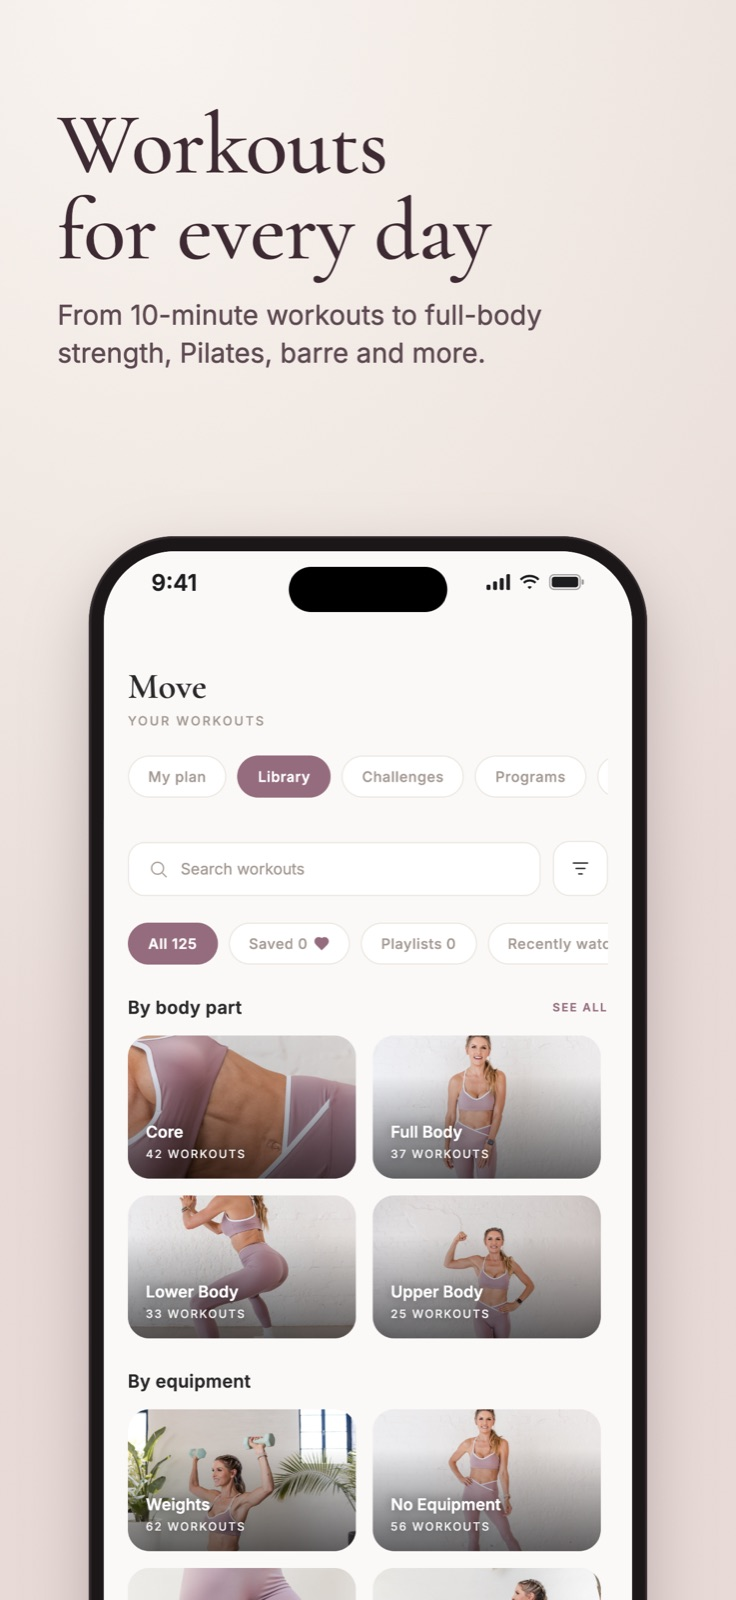
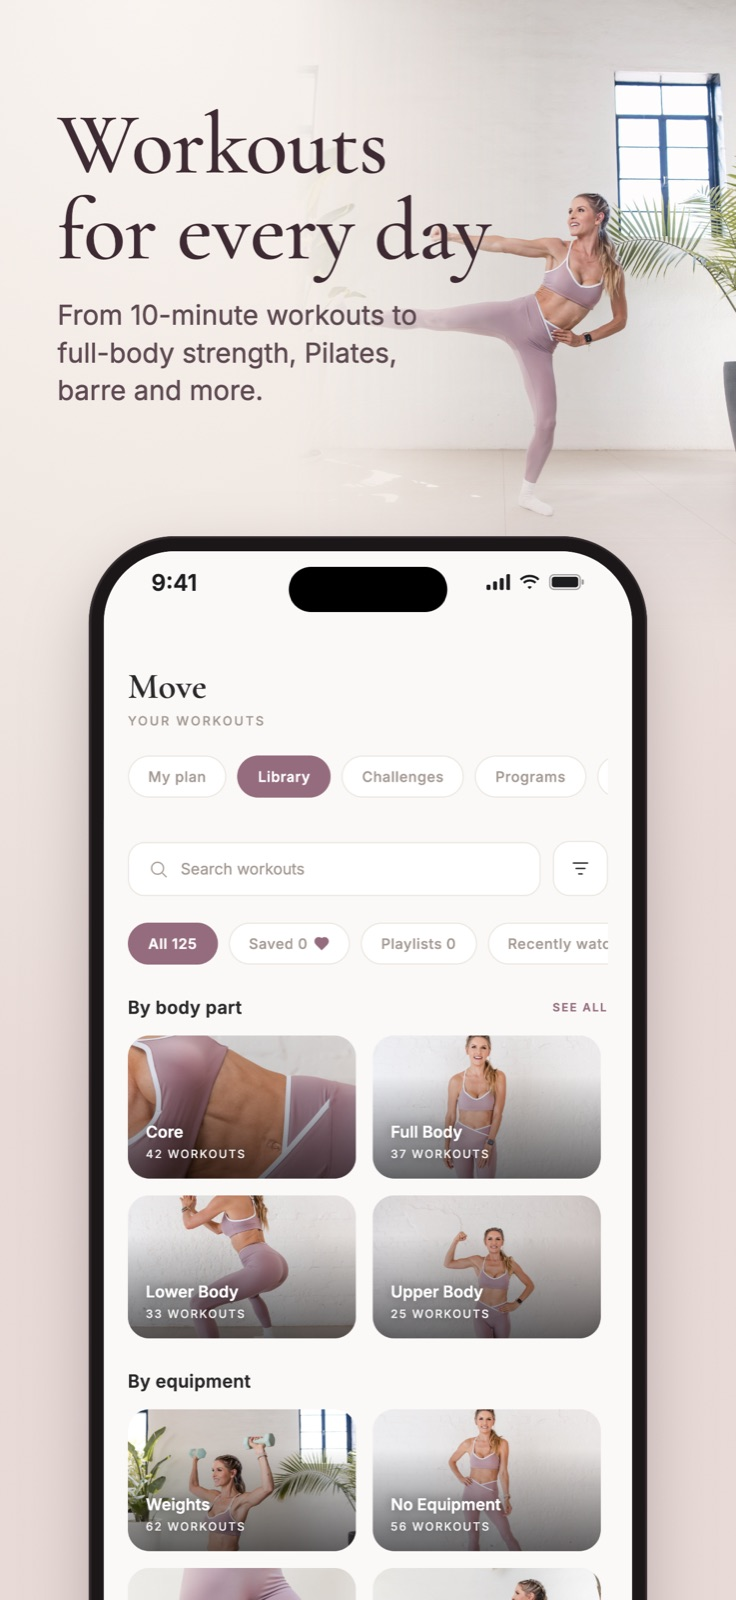
BRN-352: photo backdrops on every frame, Today + Progress fixed, promotional cards (Play promo content + Apple In-App Events) with research

Changed region(s): [[0.0625, 0.0, 1.0, 0.3125], [0.9688, 0.2188, 1.0, 0.2812]]

diff --git a/play-listing/index.html b/play-listing/index.html
@@ -31,10 +31,22 @@ h1,h2{font-family:'Cormorant Garamond',serif;font-weight:600}h1{font-size:40px;m
 .set{display:flex;gap:12px;overflow-x:auto;padding:12px 2px 16px}.set a{flex:none}.set img{height:520px;border-radius:12px;box-shadow:0 6px 18px rgba(62,42,51,.15);display:block}
 .set.ip img{height:520px}
 table{border-collapse:collapse;width:100%;font-size:14px;background:#fff;border-radius:12px;overflow:hidden}td,th{text-align:left;padding:9px 12px;border-bottom:1px solid #eee;vertical-align:top}th{background:var(--sand);font-size:12px;text-transform:uppercase;letter-spacing:.06em}
-.src{font-size:12.5px;color:var(--mute)}.src a{color:var(--md)}
+.src{font-size:12.5px;color:var(--mute)}
+.promo{display:grid;grid-template-columns:1fr 1fr;gap:22px;background:#fff;border:1px solid #eadfd8;border-radius:16px;padding:18px;margin:16px 0}@media(max-width:900px){.promo{grid-template-columns:1fr}}
+.promo h3{grid-column:1/-1;margin:0;font-family:'Cormorant Garamond',serif;font-size:26px}
+.promo .meta{grid-column:1/-1;font-size:13px;color:var(--mute);margin-top:-14px}
+.gcard{border-radius:14px;overflow:hidden;position:relative;font-family:Roboto,Arial,sans-serif;box-shadow:0 4px 14px rgba(0,0,0,.12)}
+.gcard img{width:100%;display:block}.gcard .ov{position:absolute;left:0;right:0;bottom:0;padding:14px 16px;background:linear-gradient(180deg,transparent,rgba(0,0,0,.62));color:#fff}
+.gcard .ty{font-size:11px;letter-spacing:.06em;text-transform:uppercase;opacity:.9}.gcard .tg{font-size:16px;font-weight:500;margin-top:3px}
+.acard{border-radius:16px;overflow:hidden;background:#fff;box-shadow:0 4px 14px rgba(0,0,0,.12);font-family:-apple-system,'Inter',sans-serif}
+.acard img{width:100%;display:block}.acard .b{padding:10px 14px 14px}.acard .bd{font-size:11px;font-weight:600;color:#8E5F70;letter-spacing:.04em;text-transform:uppercase}
+.acard .n{font-size:17px;font-weight:600;margin-top:2px}.acard .s{font-size:13px;color:#6e6e73}
+.lbl{font-size:11px;letter-spacing:.08em;text-transform:uppercase;color:var(--mute);margin-bottom:6px;font-weight:600}
+.copytbl td{font-size:13px}.src a{color:var(--md)}
 </style></head><body><div class="wrap">
 <span class="pill">Review · nothing uploaded</span>
 <h1>BURN on Google Play: your store page</h1>
+<p class="note"><b>Updated:</b> every screenshot now has its own photo backdrop, the Today and Progress screens are fixed, and there's a new promotional cards section further down.</p>
 <p class="note">This is how your listing will look on a phone, with your own description word for word and the new screenshots in the style you sent. Every phone shows the real app: the current build (Preview 407), November dates and demo data with made-up names, never real members. Nothing has been uploaded to Google Play or the App Store.</p>
 
 <div class="grid">
@@ -165,6 +177,43 @@ https://burn-app-legal.netlify.app/support.html</div>
 <h2>iPhone screenshots · 1320 × 2868 (6.9")</h2>
 <div class="set ip"><a href="v3/iphone/01-hero.jpg" target="_blank"><img src="v3/iphone/01-hero.jpg" alt="01-hero"></a><a href="v3/iphone/02-challenge.jpg" target="_blank"><img src="v3/iphone/02-challenge.jpg" alt="02-challenge"></a><a href="v3/iphone/03-move.jpg" target="_blank"><img src="v3/iphone/03-move.jpg" alt="03-move"></a><a href="v3/iphone/04-recipes.jpg" target="_blank"><img src="v3/iphone/04-recipes.jpg" alt="04-recipes"></a><a href="v3/iphone/05-together.jpg" target="_blank"><img src="v3/iphone/05-together.jpg" alt="05-together"></a><a href="v3/iphone/06-clubs.jpg" target="_blank"><img src="v3/iphone/06-clubs.jpg" alt="06-clubs"></a><a href="v3/iphone/07-friends.jpg" target="_blank"><img src="v3/iphone/07-friends.jpg" alt="07-friends"></a><a href="v3/iphone/08-progress.jpg" target="_blank"><img src="v3/iphone/08-progress.jpg" alt="08-progress"></a><a href="v3/iphone/09-thrive.jpg" target="_blank"><img src="v3/iphone/09-thrive.jpg" alt="09-thrive"></a></div>
 
+<h2>Promotional cards ("promotions tab")</h2>
+<p class="note"><b>The short answer:</b> the promo cards you remember from the old BURN listing are Google Play's <b>Promotional content</b> (it used to be called LiveOps). Google now only gives this to very large apps: roughly 1.6 million monthly users, or $40,000 a month spent on Play. Brand-new listings can't use it at all. I checked BURN's Play Console (read-only): there's no Promotional content option under Grow users. So we can't post these on Google Play yet. <b>On the App Store, you can</b>: Apple's In-App Events are open to every app, with up to 10 live at once on your page. A monthly challenge is exactly what Apple designed them for.</p>
+<table>
+<tr><th></th><th>Google Play · Promotional content</th><th>App Store · In-App Events</th></tr>
+<tr><td>Can BURN use it now?</td><td><b>No.</b> Only very large apps qualify, and new listings can't use it at all. It isn't in BURN's Play Console.</td><td><b>Yes.</b> Every app can use them.</td></tr>
+<tr><td>How many at once</td><td>One live at a time. Up to 6 featuring requests a quarter.</td><td>Up to 10 published at once (15 approved). All show on your page.</td></tr>
+<tr><td>Types</td><td>Offer · Time-limited event (challenge, live, special) · Major update (new features, new content)</td><td>Challenge · Competition · Live Event · Major Update · New Season · Premiere · Special Event</td></tr>
+<tr><td>How long</td><td>Up to 4 weeks. Major updates run 28 days. Submit 4 or more days ahead (14 if you want featuring).</td><td>15 minutes to 31 days. Can be promoted up to 14 days early.</td></tr>
+<tr><td>Image</td><td>1920 × 1080, with <b>no text at all</b>: no logo, slogan or app name. Keep the safe zone clear: 15% top, 20% bottom, 10% sides.</td><td>Card 1920 × 1080 and details page 1080 × 1920. Apple asks you to avoid text and logos.</td></tr>
+<tr><td>Words</td><td>Tagline up to 80 characters. Description up to 500.</td><td>Name 30 · short description 50 · long description 120. No calls to action.</td></tr>
+<tr><td>Offers and prices</td><td>Must be a real, time-limited offer worth at least 10%, open to everyone, through Google Play.</td><td>No prices. Apple rejects "price promotions that don't introduce any new content".</td></tr>
+</table>
+<p class="note" style="margin-top:14px">Below are the cards I've designed. As both stores require, the images carry no words; the store adds the title and text underneath. They're shown here roughly as they'd appear.</p>
+<div class="promo"><h3>Body Redefined Challenge</h3><div class="meta">Ready: fits both stores · 1–30 Nov 2026 · Google: Time-limited event · Challenge · Apple badge: Challenge</div>
+<div><div class="lbl">Google Play card (when eligible)</div><div class="gcard"><img src="v3/promo/body-redefined-card.jpg" alt=""><div class="ov"><div class="ty">Time-limited event</div><div class="tg">Join the 30-day Body Redefined challenge with Rebecca</div></div></div>
+<table class="copytbl" style="margin-top:10px"><tr><td><b>Tagline</b> (53/80)</td><td>Join the 30-day Body Redefined challenge with Rebecca</td></tr><tr><td><b>Description</b> (243/500)</td><td>Our November challenge is here! Every day there&#x27;s a new workout, with strength training, Pilates, barre, cardio and sculpting. Download the guide, tick off each day on your calendar and answer the daily question with everyone in the challenge.</td></tr></table></div>
+<div><div class="lbl">App Store In-App Event</div><div style="display:grid;grid-template-columns:1.6fr 1fr;gap:12px;align-items:start"><div class="acard"><img src="v3/promo/body-redefined-card.jpg" alt=""><div class="b"><div class="bd">Challenge</div><div class="n">Body Redefined Challenge</div><div class="s">30 days to feel stronger, together</div></div></div>
+<img src="v3/promo/body-redefined-details.jpg" style="width:100%;border-radius:14px;box-shadow:0 4px 14px rgba(0,0,0,.12)" alt=""></div>
+<table class="copytbl" style="margin-top:10px"><tr><td><b>Name</b> (24/30)</td><td>Body Redefined Challenge</td></tr><tr><td><b>Short</b> (34/50)</td><td>30 days to feel stronger, together</td></tr><tr><td><b>Long</b> (110/120)</td><td>Join our November challenge! A workout for every day, a guide to download and a calendar to keep you on track.</td></tr></table></div></div><div class="promo"><h3>The Brand-New BURN App</h3><div class="meta">Only if it is a real, dated thing in the app · Launch week (28 days on Play) · Google: Major update · New features · Apple badge: Major Update</div>
+<div><div class="lbl">Google Play card (when eligible)</div><div class="gcard"><img src="v3/promo/new-app-card.jpg" alt=""><div class="ov"><div class="ty">Major update</div><div class="tg">The brand-new BURN app: your plan, friend challenges and Clubs</div></div></div>
+<table class="copytbl" style="margin-top:10px"><tr><td><b>Tagline</b> (62/80)</td><td>The brand-new BURN app: your plan, friend challenges and Clubs</td></tr><tr><td><b>Description</b> (206/500)</td><td>We&#x27;ve rebuilt BURN from the ground up. Create a plan that fits your week, start a challenge with your friends, join the daily question in the challenge tab, and celebrate every Club with the BURN community.</td></tr></table></div>
+<div><div class="lbl">App Store In-App Event</div><div style="display:grid;grid-template-columns:1.6fr 1fr;gap:12px;align-items:start"><div class="acard"><img src="v3/promo/new-app-card.jpg" alt=""><div class="b"><div class="bd">Major Update</div><div class="n">The Brand-New BURN App</div><div class="s">Your plan, friend challenges, Clubs and more</div></div></div>
+<img src="v3/promo/new-app-details.jpg" style="width:100%;border-radius:14px;box-shadow:0 4px 14px rgba(0,0,0,.12)" alt=""></div>
+<table class="copytbl" style="margin-top:10px"><tr><td><b>Name</b> (22/30)</td><td>The Brand-New BURN App</td></tr><tr><td><b>Short</b> (44/50)</td><td>Your plan, friend challenges, Clubs and more</td></tr><tr><td><b>Long</b> (113/120)</td><td>Everything&#x27;s new! Make your own plan, challenge your friends, answer the daily question and celebrate every Club.</td></tr></table></div></div><div class="promo"><h3>Club Week</h3><div class="meta">Only if it is a real, dated thing in the app · 16–22 Nov 2026 (needs a real in-app moment) · Google: Time-limited event · Special · Apple badge: Special Event</div>
+<div><div class="lbl">Google Play card (when eligible)</div><div class="gcard"><img src="v3/promo/club-week-card.jpg" alt=""><div class="ov"><div class="ty">Time-limited event</div><div class="tg">Club Week: every workout counts toward your next Club</div></div></div>
+<table class="copytbl" style="margin-top:10px"><tr><td><b>Tagline</b> (53/80)</td><td>Club Week: every workout counts toward your next Club</td></tr><tr><td><b>Description</b> (181/500)</td><td>This week, every workout you finish counts toward your next Club. Reach 10, 25 or 50 workouts and we&#x27;ll celebrate you in the BURN community. Do it on your own, or with your friends.</td></tr></table></div>
+<div><div class="lbl">App Store In-App Event</div><div style="display:grid;grid-template-columns:1.6fr 1fr;gap:12px;align-items:start"><div class="acard"><img src="v3/promo/club-week-card.jpg" alt=""><div class="b"><div class="bd">Special Event</div><div class="n">Club Week</div><div class="s">Reach your next Club with the community</div></div></div>
+<img src="v3/promo/club-week-details.jpg" style="width:100%;border-radius:14px;box-shadow:0 4px 14px rgba(0,0,0,.12)" alt=""></div>
+<table class="copytbl" style="margin-top:10px"><tr><td><b>Name</b> (9/30)</td><td>Club Week</td></tr><tr><td><b>Short</b> (39/50)</td><td>Reach your next Club with the community</td></tr><tr><td><b>Long</b> (112/120)</td><td>Every workout counts toward your next Club. Hit 10, 25 or 50 this week and we&#x27;ll celebrate you in the community.</td></tr></table></div></div><div class="promo"><h3>New Winter Recipes</h3><div class="meta">Only if it is a real, dated thing in the app · When a new batch of recipes goes live · Google: Major update · New content · Apple badge: Premiere</div>
+<div><div class="lbl">Google Play card (when eligible)</div><div class="gcard"><img src="v3/promo/recipes-card.jpg" alt=""><div class="ov"><div class="ty">Major update</div><div class="tg">New winter recipes have just landed in Nourish</div></div></div>
+<table class="copytbl" style="margin-top:10px"><tr><td><b>Tagline</b> (46/80)</td><td>New winter recipes have just landed in Nourish</td></tr><tr><td><b>Description</b> (139/500)</td><td>Fresh, simple recipes to fuel your workouts are now in Nourish. Filter by how you eat, save your favourites and come back to them any time.</td></tr></table></div>
+<div><div class="lbl">App Store In-App Event</div><div style="display:grid;grid-template-columns:1.6fr 1fr;gap:12px;align-items:start"><div class="acard"><img src="v3/promo/recipes-card.jpg" alt=""><div class="b"><div class="bd">Premiere</div><div class="n">New Winter Recipes</div><div class="s">Fresh, simple recipes to fuel your workouts</div></div></div>
+<img src="v3/promo/recipes-details.jpg" style="width:100%;border-radius:14px;box-shadow:0 4px 14px rgba(0,0,0,.12)" alt=""></div>
+<table class="copytbl" style="margin-top:10px"><tr><td><b>Name</b> (18/30)</td><td>New Winter Recipes</td></tr><tr><td><b>Short</b> (43/50)</td><td>Fresh, simple recipes to fuel your workouts</td></tr><tr><td><b>Long</b> (88/120)</td><td>New recipes have just landed in Nourish! Filter by how you eat and save your favourites.</td></tr></table></div></div>
+<div class="flag" style="border-color:#efc9c9;background:#fff6f6"><b>REFILL / 10% off forever: not as a store card.</b> Both stores would reject it. It's an ongoing price, it's only for some people (event sign-ups and referral links), and it's redeemed outside Google Play and Apple. <b>What works instead:</b> share the 10% links by email, Instagram and the community, which is where they already work. If you want a store card for an offer, it has to be a real store offer set up in Google Play or App Store Connect, such as a time-limited introductory price for new members.</div>
+<div class="flag"><b>Club Week and New Winter Recipes</b> only qualify if they're real, dated things happening in the app: a Club Week the team runs, or a real new batch of recipes going live. Otherwise both stores treat them as general advertising and reject them.</div>
+
 <h2>What the research says (and what we did)</h2>
 <table>
 <tr><th>Rule or best practice</th><th>What we did</th></tr>
@@ -177,5 +226,5 @@ https://burn-app-legal.netlify.app/support.html</div>
 <tr><td>Top fitness apps (Sweat, Centr, Nike Training Club, Peloton) all use a "Brand: keyword" title, capital-letter headings with bullets, no emoji in the title, and subscription terms at the end.</td><td>Your description already follows this structure.</td></tr>
 </table>
 <p class="src">Sources: Google Play Console Help, <a href="https://support.google.com/googleplay/android-developer/answer/9866151">Preview assets</a> · <a href="https://support.google.com/googleplay/android-developer/answer/9898842">Metadata policy</a> · <a href="https://support.google.com/googleplay/android-developer/answer/13393723">Store listing best practices</a> · <a href="https://support.google.com/googleplay/android-developer/answer/16679511">Health Content and Services</a> · <a href="https://support.google.com/googleplay/android-developer/answer/9900533">Subscriptions</a> · <a href="https://support.google.com/googleplay/android-developer/answer/4448378">Search and discovery</a> · <a href="https://developer.android.com/distribute/google-play/resources/icon-design-specifications">Icon specs</a> · Apple <a href="https://developer.apple.com/app-store/review/guidelines/">App Review Guidelines</a> 2.3 and 3.1.2 · Live listings of Sweat, Centr, Nike Training Club and Peloton (checked 28 Oct 2026).</p>
-<p class="src" style="margin-top:30px">BRN-352 · Prepared 28 Oct 2026 · Upload nothing until you've picked.</p>
+<p class="src" style="margin-top:30px">BRN-352 · Prepared 28 Oct 2026 · updated with backdrops and promo cards · Upload nothing until you've picked.</p>
 </div></body></html>
